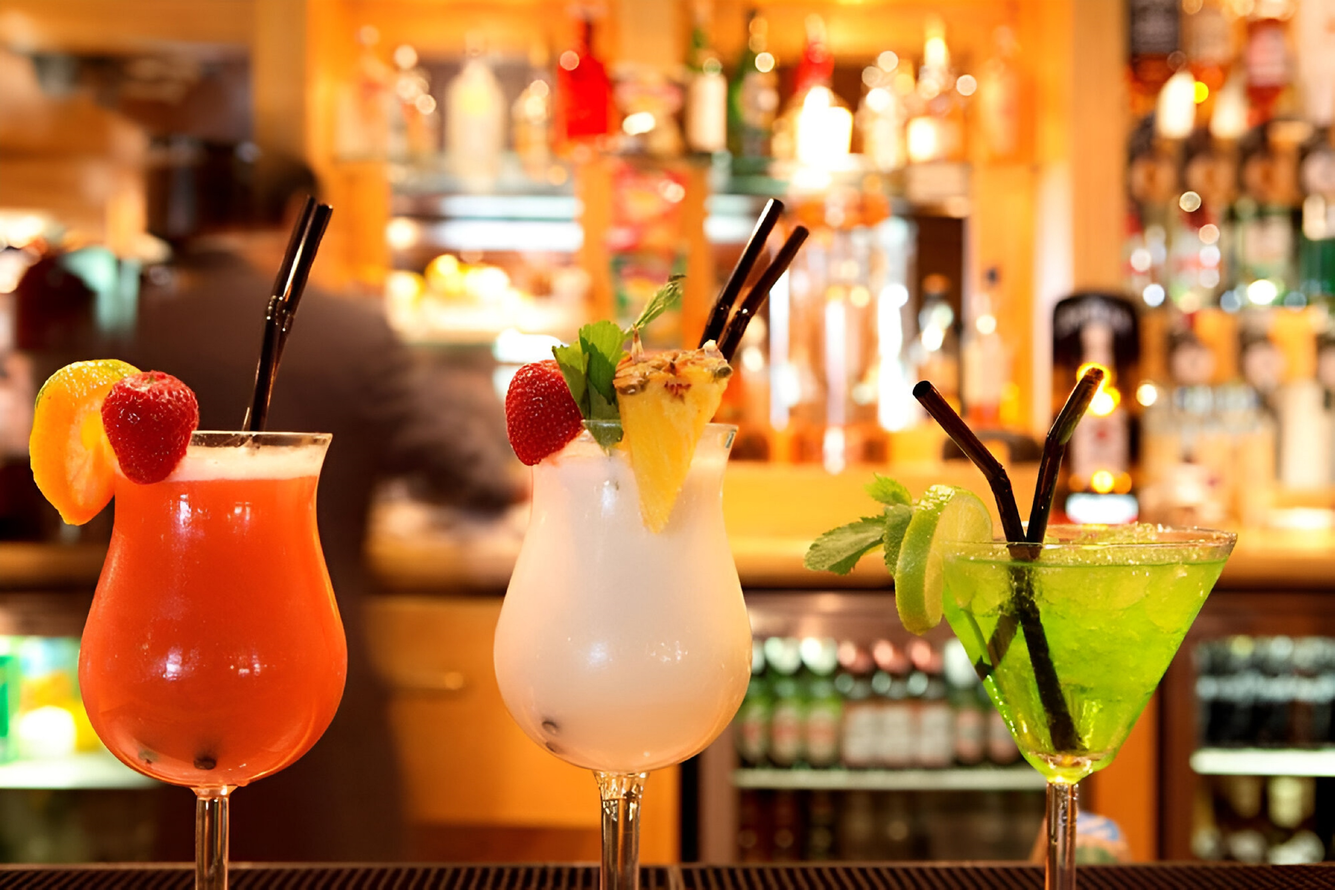
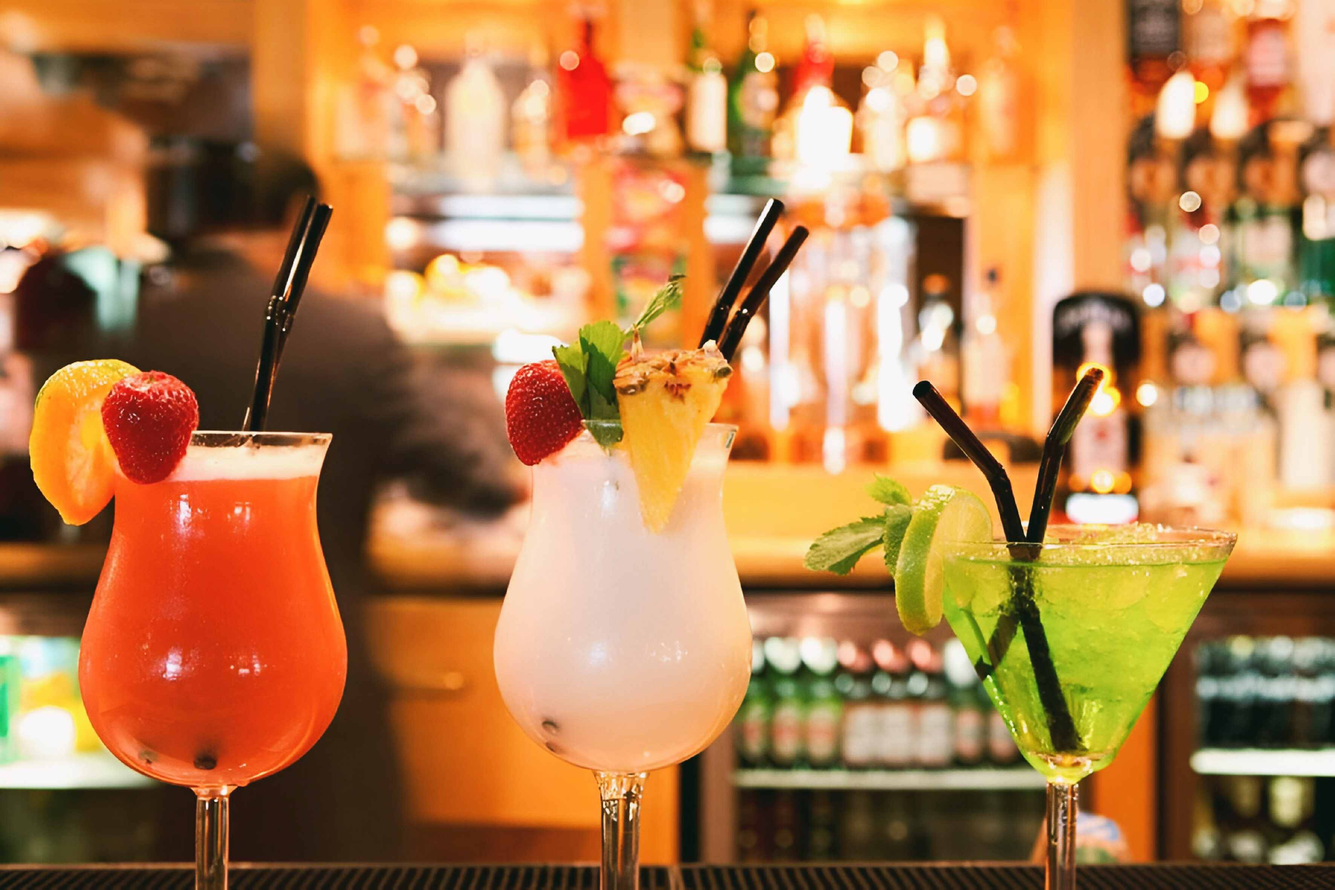
compression images

diff --git a/css/style.css b/css/style.css
@@ -329,12 +329,34 @@ p {
 }
 
 h1 {
-	font-size: clamp(30px,10vw,50px);
+	font-size: clamp(20px,11vw,55px);
 	font-weight: normal;
+	margin-bottom: 40px;
+	position: relative;
+}
+
+h1::after {
+	content: "";
+	position: absolute;
+	left: 0; /* alignement à gauche avec le texte */
+	right: 0; /* alignement à droite avec le texte */
+	bottom: -18px;
+	height: 1px;
+	background: rgb(161, 161, 161);
+	width: 80%;
+	margin-left: auto;
+	margin-right: auto;
 }
 
 h2 {
-	font-size: clamp(26px,10vw,30px);
+	font-size: clamp(10px,10vw,30px);
+	font-weight: normal;
+	margin-bottom: 6px;
+}
+
+h3 {
+	font-weight: normal;
+	margin-bottom: 6px;
 }
 
 /* Textes */
@@ -343,31 +365,25 @@ h2 {
 	width: clamp(10px, 100%, 800px);
 	padding-left: 12px;
 	padding-right: 12px;
+	margin-top: 40px;
 	box-sizing:border-box; /* indique au navigateur qu'il doit tenir compte des bordures */
-	text-align: left;
+	text-align: justify;
+
+	/* permet les césures */
+	-webkit-hyphens: auto;
+	-moz-hyphens: auto;
+	-ms-hyphens: auto;
+	hyphens: auto;
 }
 
 .text-container h1 {
 	text-align: center;
 }
 
-.spacer {
-	height: 20px;
-}
-
-.title-spacer {
-	height: 20px;
-}
-
-.sub-title-spacer {
-	height: 8px;
-}
-
 .content-container {
 	display: flex;
 	flex-direction: column;
 	margin-bottom: 40px;
-	gap: 20px;
 	align-items: center;
 }
 
@@ -465,6 +481,7 @@ h2 {
 .slider {
 	max-width: 100%;
 	text-align: center;
+	height: 550px;
 }
 .slider input[type=radio] {
 	display: none;
@@ -545,7 +562,6 @@ h2 {
 @media screen and (min-width: 1440px) {
 	.controls { display: none;}
 	.bullets label{ display: none;}
-
 	.slider {
 		width: 1440px;
 		overflow: hidden;
@@ -553,10 +569,6 @@ h2 {
 }
 
 /* Horaires */
-h3 {
-	padding-bottom: 10px;
-}
-
 .content .horaire {
     list-style: none;
     padding: 0;
@@ -595,20 +607,32 @@ h3 {
 
 /* =======[Footer]======= */
 
-footer{
+footer {
+	font-family: var(--text-font);
+	font-size: clamp(10px,4vw,16px);
 	text-align: center;
 	color: var(--text-color);
 	background-color: var(--navbar-background-color);
 	width: 100%;
-	height: 100px;
 }
 
-footer small {
-	font-family: var(--text-font);
-	display: flex;
-	justify-content: center;
-	padding-top: 10px;
+
+.footer-text {
 	border-top: 2px solid rgb(50, 50, 50);
+	width: calc(100% - 10vw); /*largeur bordure */
+	margin: 0 auto;
+}
+  
+.footer-description {
+	font-family: var(--text-font);
+	padding: 10px;
+	display: block;
+}
+  
+.footer-copyright {
+	font-family: var(--text-font);
+	padding-bottom: 18px;
+	display: block;
 }
 
 footer ul {
@@ -621,6 +645,7 @@ footer ul {
 footer ul li {
 	font-family: var(--text-font);
 }
+
 
 /* =====[Responsive]===== */
 
@@ -745,21 +770,5 @@ footer ul li {
 		width:auto;
 		height:auto;
 	}
-
-	
-	/* =======[Footer]======= */
-
-	footer{
-		height: 150px;
-	}
-
-	footer small {
-		font-size: small;
-	}
-
-	br {
-		display: block;
-		margin: 4px 0;
-	 }
 }
   

diff --git a/index.html b/index.html
@@ -4,6 +4,8 @@
 <head>
 	<meta charset="UTF-8">
 	<meta name="viewport" content="width=device-width, initial-scale=1.0">
+	<meta name="og:description" content="Pays Noir est l'annuaire des activitées à Charleroi.">
+	<meta name="og:image" content="./thumbnail.png">
 	<link rel="stylesheet" href="./css/style.css">
 
 	<!--Police d'écriture google font-->
@@ -90,10 +92,8 @@
 	</header>
 	<main>
 		<div class="content-container">
-			<div class="spacer"></div>
 			<div class="text-container">
 				<h1>Bienvenue sur Pays Noir</h1>
-				<div class="title-spacer"></div>
 				<p>
 					Découvrez Charleroi, cité surprenante aux multiples visages. Savourez l'ambiance des
 					bars vivants, plongez dans la richesse culturelle de ses musées et spectacles, vibrez au rythme des
@@ -103,10 +103,8 @@
 					authentique au cœur du Pays Noir.
 				</p>
 			</div>
-			<div class="spacer"></div>
 			<div class="text-container">
 				<h2>Notre sélection</h2>
-				<div class="sub-title-spacer"></div>
 				<p>
 					Soigneusement choisie pour vous faire vivre les incontournables du
 					dynamisme et de la créativité.
@@ -254,7 +252,6 @@
 			</div>
 			<div class="text-container">
 				<h2>Simple et efficace</h2>
-				<div class="sub-title-spacer"></div>
 				<p>
 					Un bar sympa pour décompresser après le travail ou un spectacles pour passer un bon moment en fin
 					de semaine.
@@ -262,7 +259,6 @@
 			</div>
 			<div class="text-container">
 				<h2>Pour une journée ensoleillée</h2>
-				<div class="sub-title-spacer"></div>
 				<p>
 					Et s'il y a un brin de soleil dans notre pays, pourquoi ne pas tester ces activitées ?
 				</p>
@@ -282,11 +278,15 @@
 						aria-hidden="true"></i>
 					Github</a></li>
 		</ul>
-		<small>
-			Ce site a été conçu pour le cours de Technologies Internet en Haute École Louvain en Hainaut option
-			informatique de développement.<br>
-			Copyright &copy 2023 Nicolas Gouthiere | Photos par David Gouthiere - Tous droits réservés.
-		</small>
+		<div class="footer-text">
+			<small class="footer-description">
+				Ce site a été conçu pour le cours de Technologies Internet en Haute École Louvain en Hainaut option
+				informatique de développement.
+			</small>
+			<small class="footer-copyright">
+				Copyright &copy 2023 Nicolas Gouthiere | Photos par David Gouthiere - Tous droits réservés.
+			</small>
+		</div>
 	</footer>
 </body>
 
